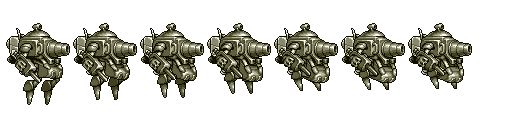
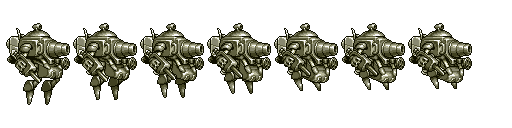
le feu suit le gunner quand il saute;

diff --git a/src/com/oqs/opengl/OpenglActivity.java b/src/com/oqs/opengl/OpenglActivity.java
@@ -15,6 +15,7 @@ import android.graphics.Bitmap;
 import android.graphics.BitmapFactory;
 import android.graphics.BitmapFactory.Options;
 import android.os.Bundle;
+import android.os.Handler;
 import android.util.DisplayMetrics;
 import android.util.Log;
 import android.util.Pair;
@@ -29,6 +30,8 @@ import android.widget.RelativeLayout.LayoutParams;
 public class OpenglActivity extends Activity {
 	private  static float SPRITE_WIDTH = 0;
 	private static float SPRITE_HEIGHT = 0;
+
+	private Handler _handler = new Handler();
 
 	private RelativeLayout _mainLayout;
 	private GLSurfaceView mGLSurfaceView;
@@ -177,6 +180,10 @@ public class OpenglActivity extends Activity {
 		for(int i = 0;i<playerSprites.size();i++){
 			if(playerSprites.get(i).getResourceName().equals("walk"))
 				playerSprites.get(i).mustDraw = true;
+			if(playerSprites.get(i).getResourceName().equals("armfire")){
+				playerSprites.get(i).x = getWalkAnim().x + getWalkAnim().textureWidth*0.07f;
+				playerSprites.get(i).y = GROUND_LEVEL - getWalkAnim().textureHeight*0.55f;
+			}
 			if(playerSprites.get(i).getResourceName().equals("jump")){
 				playerSprites.get(i).loop = false;
 				//playerSprites.get(i).applyGravity = true;
@@ -189,6 +196,11 @@ public class OpenglActivity extends Activity {
 				playerSprites.get(i).loop = false;
 			if(playerSprites.get(i).getResourceName().equals("bullet"))
 				playerSprites.get(i).loop = false;
+
+			if(playerSprites.get(i).getResourceName().equals("walk") || playerSprites.get(i).getResourceName().equals("jump")||playerSprites.get(i).getResourceName().equals("fall")){
+				playerSprites.get(i).x = (int) (0.22f*_screenHeight);
+				playerSprites.get(i).y = GROUND_LEVEL;
+			}
 		}
 
 	}
@@ -213,7 +225,12 @@ public class OpenglActivity extends Activity {
 		img2.setOnTouchListener(new View.OnTouchListener() {			
 			@Override
 			public boolean onTouch(View v, MotionEvent event) {
-				shoot();
+				if(event.getAction() == MotionEvent.ACTION_UP){
+					stopShoot();
+				}else{
+					if(event.getAction() == MotionEvent.ACTION_DOWN)
+						shoot();
+				}
 				return true;
 			}
 		});
@@ -281,11 +298,6 @@ public class OpenglActivity extends Activity {
 		sprite.height = SPRITE_HEIGHT;
 		sprite.x = 0;
 		sprite.y = 0;
-
-		if(sprite.getResourceName().equals("walk") || sprite.getResourceName().equals("jump")||sprite.getResourceName().equals("fall")){
-			sprite.x = (int) (0.22f*_screenHeight);
-			sprite.y = GROUND_LEVEL;
-		}
 
 		sprite.setGrids(createGrids(sprite, animElem.getName(), animElem));
 		//spriteList.add(sprite);
@@ -386,6 +398,8 @@ public class OpenglActivity extends Activity {
 			spriteRenderer.getAnim("jump").y=GROUND_LEVEL;
 			spriteRenderer.getAnim("jump").applyGravity = true;
 			spriteRenderer.getAnim("jump").setYVelocity(0.9f);
+			spriteRenderer.getAnim("armfire").applyGravity = true;
+			spriteRenderer.getAnim("armfire").setYVelocity(0.9f);
 		}else{
 			if(playerState==JUMP){
 				playerState = JUMP_TWO;
@@ -398,32 +412,48 @@ public class OpenglActivity extends Activity {
 		playerState = FALL;
 		spriteRenderer.getAnim("jump").initAnim();
 		spriteRenderer.getAnim("jump").mustDraw = false;
+		spriteRenderer.getAnim("jump").applyGravity = false;
 		spriteRenderer.getAnim("fall").mustDraw = true;
 		spriteRenderer.getAnim("fall").y = spriteRenderer.getAnim("jump").y;
 		spriteRenderer.getAnim("fall").applyGravity = true;
-		//spriteRenderer.getAnim("fa").setYVelocity(0.5f);
+		spriteRenderer.getAnim("fall").setYVelocity(0f);
 	}
 
 	public void fallFinished() {
 		playerState = WALK;
 		spriteRenderer.getAnim("fall").initAnim();
 		spriteRenderer.getAnim("fall").mustDraw = false;
+		spriteRenderer.getAnim("walk").initAnim();
 		spriteRenderer.getAnim("walk").mustDraw = true;
 		spriteRenderer.getAnim("fall").applyGravity = false;
+		spriteRenderer.getAnim("armfire").applyGravity = false;
+		spriteRenderer.getAnim("armfire").setYVelocity(0f);
+
 	}
 
-	private long lastshoot=0;
+	//private long lastshoot=0;
 	private void shoot() {
-		long current = System.currentTimeMillis();
-		if(current - lastshoot>170){
-			lastshoot = current;
-
-			Log.d("", "SHOOOOOOT");
-			spriteRenderer.getAnim("bullet").mustDraw = true;
-			spriteRenderer.getAnim("bullet").setXVelocity(4f);
+		spriteRenderer.getAnim("armfire").mustDraw = true;
+		
+		spriteRenderer.getAnim("bullet").mustDraw = true;
+		spriteRenderer.getAnim("bullet").setXVelocity(4f);
+		_handler.post(shootRun);
+	}
+	
+	private Runnable shootRun = new Runnable() {
+		
+		@Override
+		public void run() {
 			GLAnim player = getCurrentPlayerAnim();
-			((GLBullet)spriteRenderer.getAnim("bullet")).newBullet((int) (player.x-player.getAnchor().first+player.textureWidth*1),(int) (player.y-player.getAnchor().second+player.textureHeight*0.4+Math.random()*_screenHeight/15));
+			((GLBullet)spriteRenderer.getAnim("bullet")).newBullet((int) (player.x-player.getAnchor().first+player.textureWidth*1),(int) (player.y-player.getAnchor().second+player.textureHeight*0.38+Math.random()*_screenHeight/20));
+				_handler.postDelayed(this, 170);
 		}
+	};
+
+	private void stopShoot(){
+		_handler.removeCallbacks(shootRun);
+		spriteRenderer.getAnim("armfire").mustDraw = false;
+
 	}
 
 	private GLAnim getCurrentPlayerAnim(){
@@ -442,10 +472,13 @@ public class OpenglActivity extends Activity {
 		}
 		return null;
 	}
+
 	private GLAnim getWalkAnim(){
-		return spriteRenderer.getAnim("walk");
+		for(int i=0;i<playerSprites.size();i++){
+			if(playerSprites.get(i).getResourceName().equals("walk"))
+				return playerSprites.get(i);
+		}
+		return null;
 	}
-	
-	
 
 }

diff --git a/src/com/oqs/opengl/SimpleGLRenderer.java b/src/com/oqs/opengl/SimpleGLRenderer.java
@@ -91,10 +91,15 @@ public class SimpleGLRenderer implements GLSurfaceView.Renderer {
 
 			for (int x = 0; x < mbackgrounds.length; x++) {
 				mbackgrounds[x].draw(gl);
-			}			
+			}		
+
+			//getAnim("leftarm").draw(gl);
 			for (int x = 0; x < mplayer.length; x++) {
-				mplayer[x].draw(gl);
-			}			
+				if(!mplayer[x].getResourceName().equals("leftarm") &&  !mplayer[x].getResourceName().equals("armfire"))
+					mplayer[x].draw(gl);
+			}	
+			getAnim("armfire").draw(gl);
+
 			for (int x = 0; x < mforegrounds.length; x++) {
 				mforegrounds[x].draw(gl);
 			}
@@ -347,7 +352,7 @@ public class SimpleGLRenderer implements GLSurfaceView.Renderer {
 				return mplayer[i];
 		}
 		return null;
-		
+
 	}
 
 

diff --git a/src/com/oqs/opengl/Mover.java b/src/com/oqs/opengl/Mover.java
@@ -45,9 +45,9 @@ public class Mover implements Runnable {
 						// Apply Gravity.
 						if(object.applyGravity){
 							object.velocityY -= SPEED_OF_GRAVITY * timeDeltaSeconds;  
-							if(object.velocityY<0)
+							if(object.velocityY<0  && ((GLAnim)object).getResourceName().equals("jump"))
 								((GLAnim)object).activity.fall();
-							if(object.y < OpenglActivity.GROUND_LEVEL)
+							if(object.y < OpenglActivity.GROUND_LEVEL && ((GLAnim)object).getResourceName().equals("fall"))
 								((GLAnim)object).activity.fallFinished();
 						}
 					}
